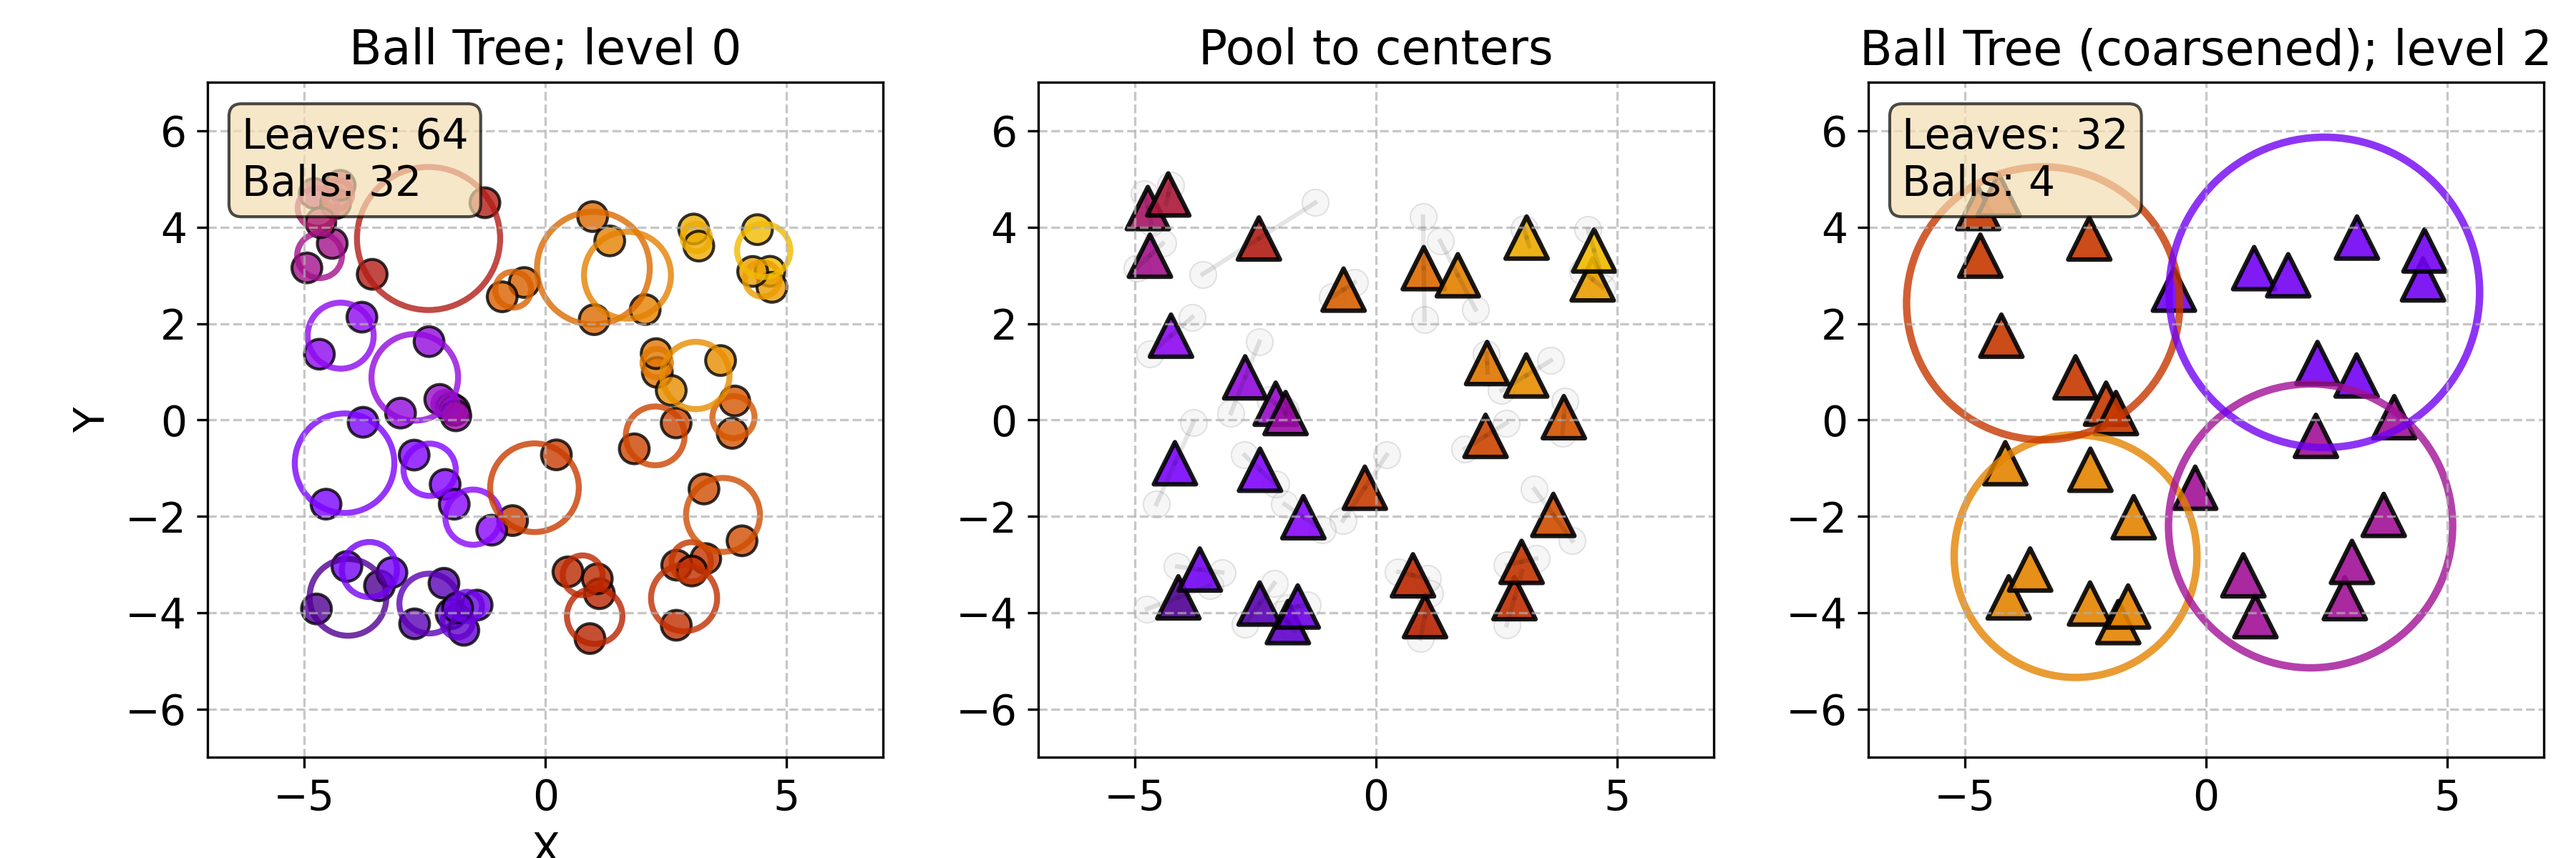
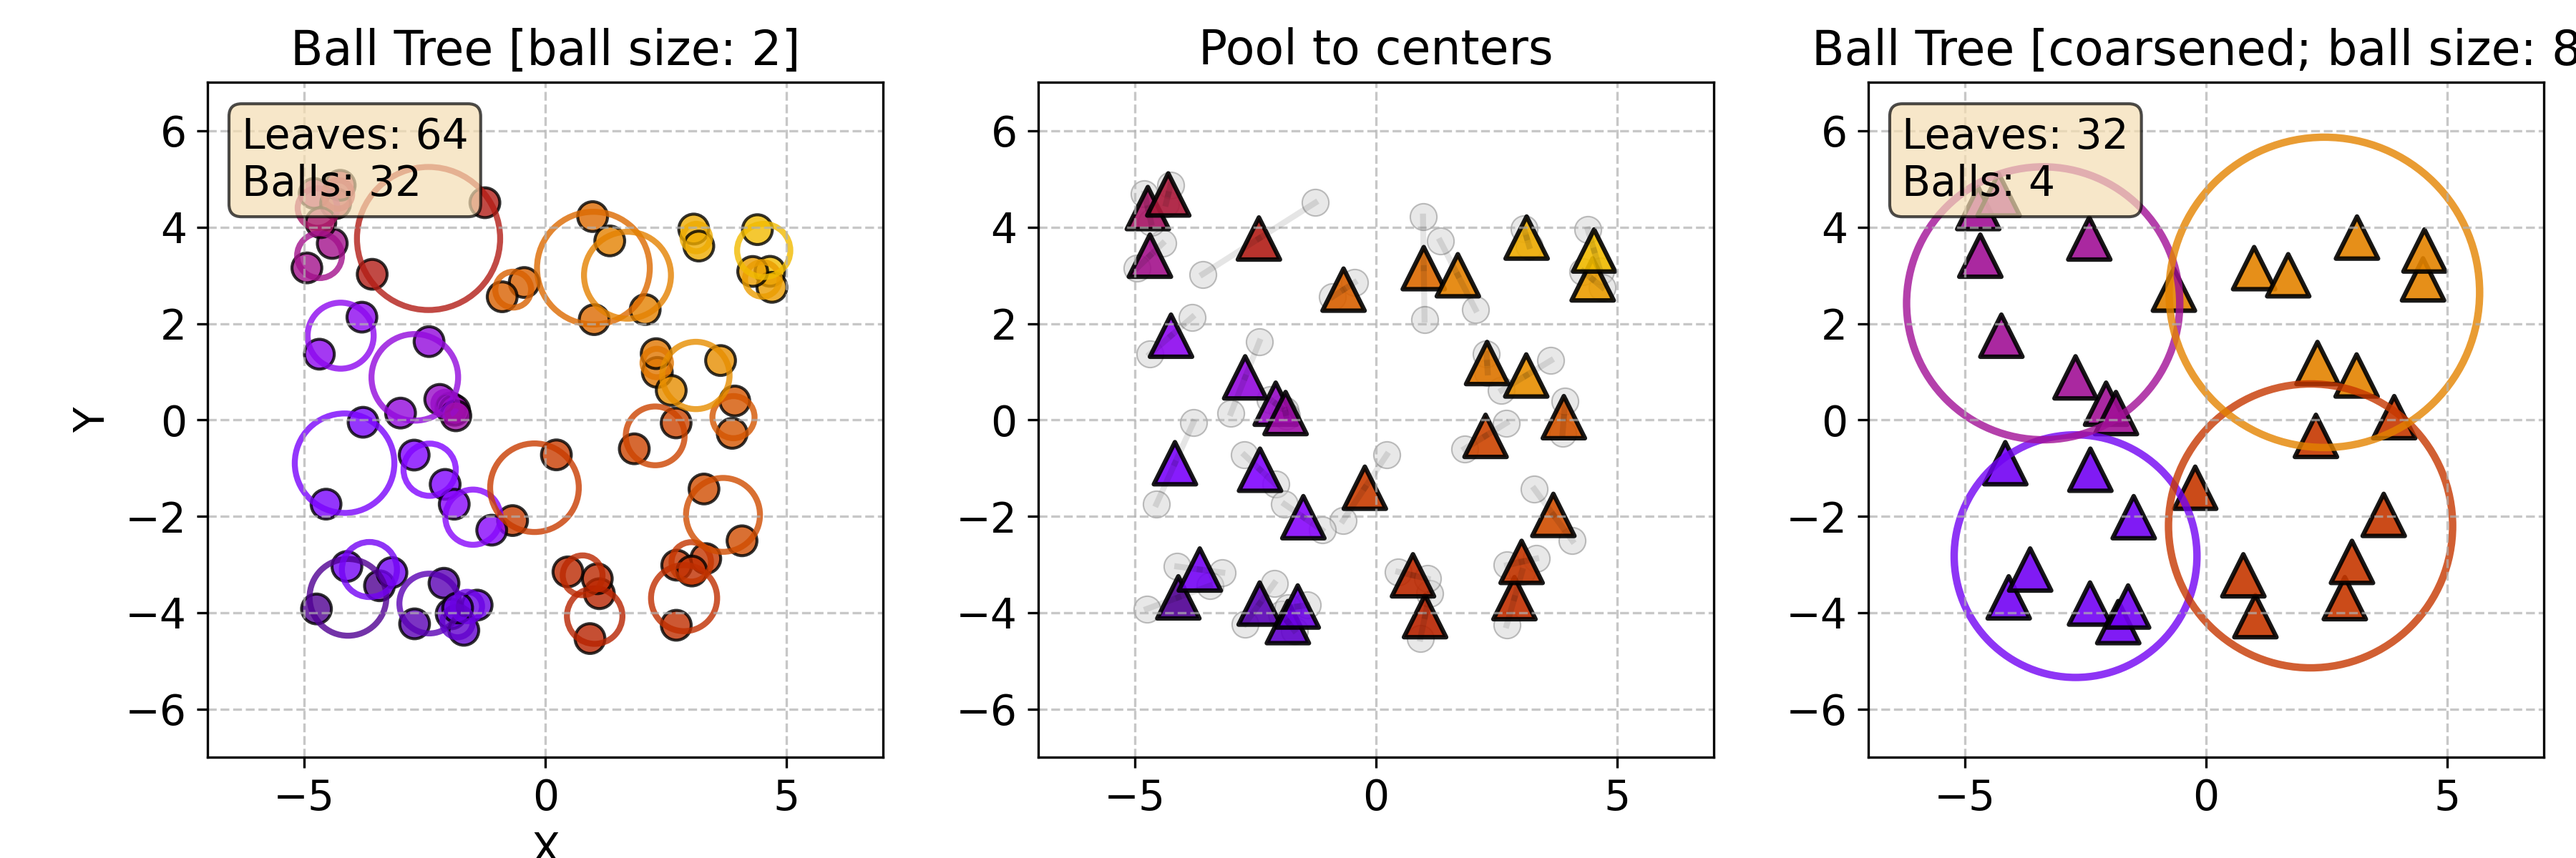
update coloring of plots

diff --git a/README.md b/README.md
@@ -23,7 +23,7 @@ The main idea of the paper is to compute attention within the ball tree partitio
 </p>
 
 ### Hierarchical structure
-Since Ball Tree Attention is localized, we progressively coarsen and then refine the ball tree to aggregate global information following a U-Net-like structure of the model::
+Since Ball Tree Attention is localized, we progressively coarsen and then refine the ball tree to aggregate global information following a U-Net-like structure of the model:
 <p align="center">
     <img src="misc/ball_tree_coarsening.png" alt="Ball Tree Coarsening" width="90%"/>
 </p>
